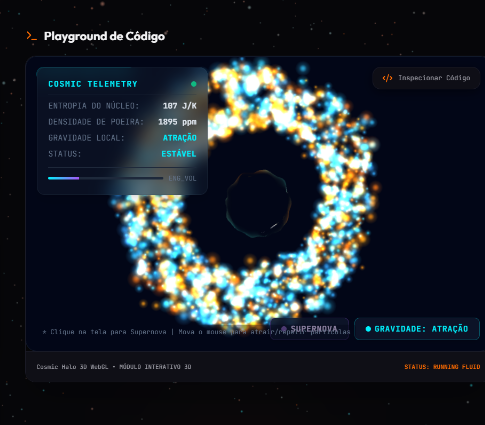
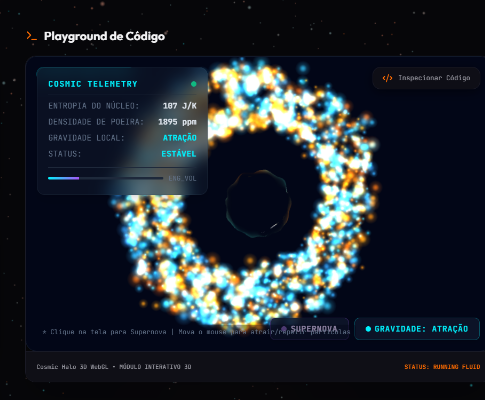
docs: adjust images and update README.md formatting to display cropped, high-quality, non-browser screenshots

diff --git a/README.md b/README.md
@@ -55,8 +55,7 @@ Simulação física de freio a disco de alta performance:
 - Clique no canvas para acionar a frenagem hidráulica
 
 <p align="center">
-  <img src="./docs/images/disc-pbr.png" width="45%" alt="Brake Disk PBR" />
-  <img src="./docs/images/thermal-glow.png" width="45%" alt="Thermal Glow" />
+  <img src="./docs/images/disc-pbr.png" width="80%" alt="Dr. Auto Parts Brake Sim 3D" />
 </p>
 
 ---
